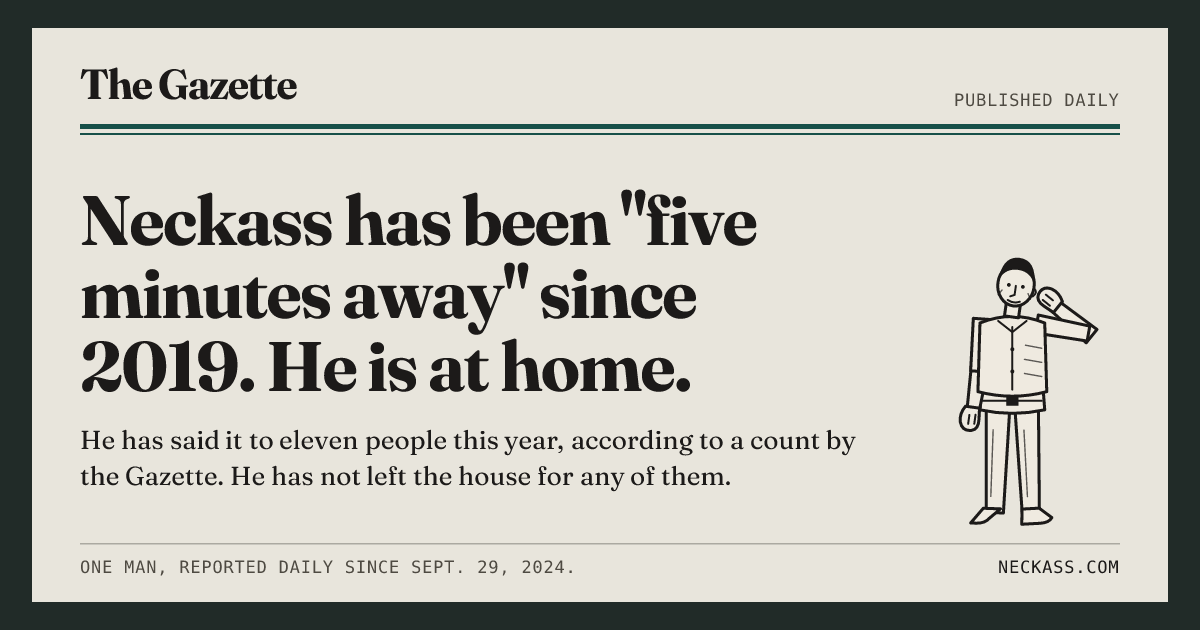
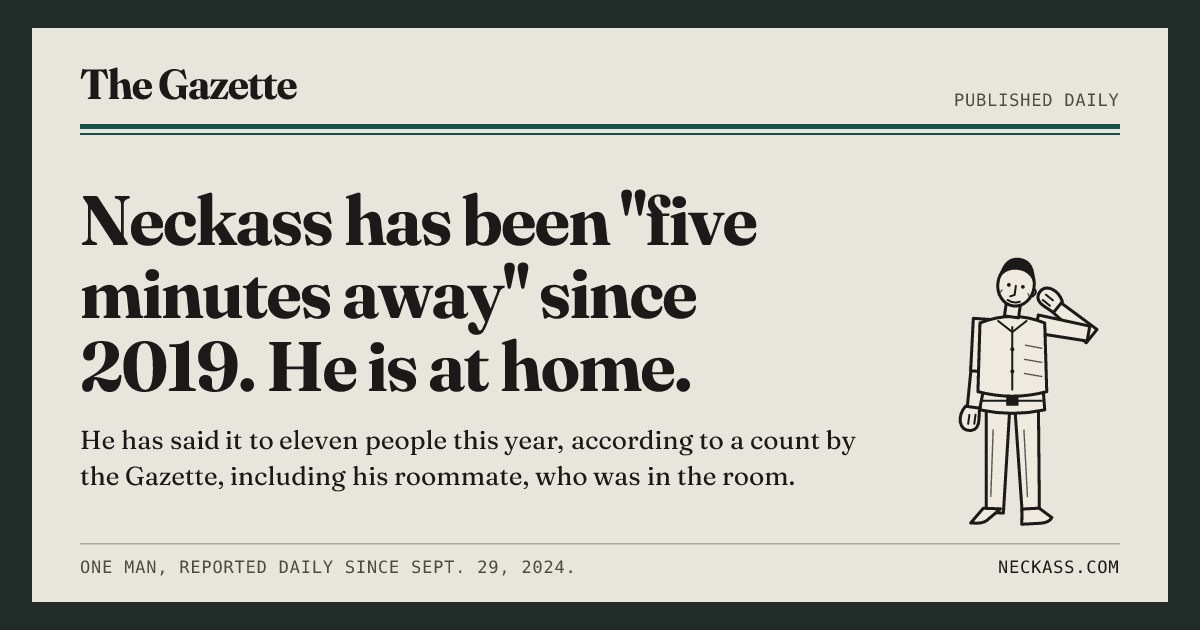
content: the jokes everyone has heard go one step further
A pass over the whole paper for what does not land: stock
observations, briefs that name a habit and stop, decks that restate
their headline, and three items that contradict their own lead.

- Stock jokes take a second step: "you too" to the pilot, then asking
  where he is staying; thanking the ATM, then "no, you've done
  enough"; the digital detox in fourteen posts and a story asking
  whether anyone noticed he was gone; "sounds good" to a choice of two
  dates, then coming on a third.
- Briefs that stopped now turn: the meal prep saved by Monday's
  takeout, inbox zero by a rule that marks everything read, the
  "sometime" coffee accepted in August and left unanswered, the
  succulent reported faulty to the nursery, the NO SNOOZE alarm
  renamed ONE SNOOZE at the second ring.
- Two briefs that restated a lead are new items: he texts the group
  chat to ask whether anyone has his number, and signs a leaving card
  "see you Monday."
- The front page's deck no longer repeats its headline: he has said
  "five minutes away" to eleven people, including his roommate, who was
  in the room. The standing issue, generate-og.ts and og-image.png
  carry the same deck.
- Leads: the best man's letter no longer says he is not engaged under
  a deck about Saturday's wedding; the door correction retracts a
  distance instead of restating it; the restaurant hostess offers him
  a table four times, at what the next day's correction shows is the
[…]

Changed region(s): [[0.185, 0.7238, 0.6783, 0.7841]]

diff --git a/data/formats.js b/data/formats.js
@@ -21,7 +21,7 @@ export const LEADS = [
     {
         headline:
             'Neckass has been "five minutes away" since 2019. He is at home.',
-        deck: 'He has said it to eleven people this year, according to a count by the Gazette. He has not left the house for any of them.',
+        deck: 'He has said it to eleven people this year, according to a count by the Gazette, including his roommate, who was in the room.',
         byline: 'From wire reports',
         pose: 'phone',
         correction:
@@ -58,14 +58,14 @@ export const LEADS = [
         byline: 'Staff report',
         pose: 'shrug',
         correction:
-            'An earlier edition said Neckass had not read the email. He has now read it. He has not replied.',
+            'An earlier edition said Neckass had not read the email. He had read the subject line, which is "Best man?"',
         followUp:
             '"Sounds good," Neckass wrote to the best-man email, and asked what date.',
         classified:
             'WANTED: a best man for Saturday. The current one believes it is a different Saturday.',
         letter: {
-            body: 'Neckass has told everyone he is my best man. I have not asked him or set a date, and I am not engaged.',
-            signature: 'The groom, apparently',
+            body: 'I asked him in March. He has not replied to me, but he has told four people he is my best man and asked each of them when the wedding is.',
+            signature: 'The groom',
         },
     },
     {
@@ -288,7 +288,7 @@ export const LEADS = [
     {
         headline:
             'Neckass arrived at the restaurant an hour early and waited outside',
-        deck: 'He had not checked the time, and stood outside for an hour in the rain.',
+        deck: 'He said he likes to "get a feel for the place" and stood in the rain for an hour, turning down a table from the hostess four times because the booking was for eight.',
         byline: 'From wire reports',
         pose: 'standingBy',
         correction:
@@ -310,7 +310,7 @@ export const LEADS = [
         correction:
             'The ending he explained was the ending of a different film.',
         followUp:
-            'The person who recommended the film has watched the one Neckass described instead. It was not the one they recommended. It was better. He has been told and has said he knew.',
+            'The person who recommended the film watched the one Neckass had described by mistake, liked it better, and told him, and he said that was the one he had been recommending all along.',
         classified:
             'SEEKING: the person who recommended the film. He would like to explain it to you.',
         letter: {
@@ -331,7 +331,7 @@ export const LEADS = [
         classified:
             'SEEKING: a minute to sit down and really reply. Owner has been meaning to since the 3rd.',
         letter: {
-            body: 'I asked if he was coming Saturday. He read it on Tuesday. The Sunday after, he replied "just seeing this!" I had seen him on Friday. He said nothing.',
+            body: 'I asked him on Tuesday if he was coming Saturday. He sat next to me at dinner on Friday and asked what I was doing Saturday, and on the Sunday after he replied "just seeing this!"',
             signature: 'A friend',
         },
     },
@@ -469,7 +469,7 @@ export const LEADS = [
     {
         headline:
             'Neckass agreed with two people who were disagreeing with each other',
-        deck: 'He agreed with the first, then the second, in the same conversation. Both noticed.',
+        deck: 'He agreed with the first, then the second, and, asked to choose, said "I think you\'re both saying the same thing." They were not.',
         byline: 'Staff report',
         pose: 'shrug',
         correction:
@@ -554,7 +554,7 @@ export const LEADS = [
         byline: 'Staff report',
         pose: 'standingBy',
         correction:
-            'Forty feet: far enough that they had to jog, and did, and thanked him.',
+            'We reported that the person was forty feet away. They were sixty, by their own account, and jogged the last forty, and thanked him.',
         followUp:
             'The person who jogged to the door has written in. It was the wrong building.',
         classified:
@@ -673,7 +673,7 @@ export const LEADS = [
             'The heat was turned off, a window opened "to freshen up," and the heat turned back on.',
         classified: 'FOR SALE: a thermostat. Works. Owner has set it once.',
         letter: {
-            body: 'The heat has been on since October. I have slept with the window open since November. We have not discussed it. He has left a note.',
+            body: 'The heat has been on since October and I have slept with the window open since November. We have not discussed it, except in the note he taped to the thermostat, which says "set, do not touch."',
             signature: 'His roommate',
         },
     },
@@ -703,7 +703,7 @@ export const LEADS = [
         correction:
             'The caller was let go at 6:50 on the third "I\'ll let you go." The call ended at 7:05.',
         followUp:
-            'Neckass called back to check the caller got off all right. They had. They were in the middle of it.',
+            'Neckass called back the next morning to check the caller had got off all right, and let them go at 9:40, on the fourth try.',
         classified:
             'WANTED: a way off the phone with a man who says "anyway." We have tried "anyway."',
         letter: {
@@ -853,7 +853,7 @@ export const LEADS = [
         correction:
             'The second dinner was canceled at the restaurant, by text, from the parking lot. The first was canceled the day of.',
         followUp:
-            'A date for the next dinner was proposed. It is one the others cannot do, which he knew. "Well, we tried."',
+            'Neckass proposed a date for the next dinner, the one night he knew the others could not do, and said "well, we tried."',
         classified:
             'WANTED: three people free on a Friday. Fourth will confirm the day of, and may not.',
         letter: {
@@ -900,7 +900,7 @@ export const CORRECTIONS = [
     'A Tuesday item said Neckass had left. He had gone to the car and come back.',
     'The Gazette described Neckass as "on his way." He was choosing a shirt.',
     'A recipe item credited Neckass with cooking. He assembled.',
-    "Neckass's reply, as reported Monday, was a thumbs-up.",
+    'We reported Monday that Neckass replied with a thumbs-up. It was a thumbs-down, which he says means "got it."',
     'An item said Neckass listened. He waited.',
     'Neckass did not cancel, as reported. He did not attend and did not say so.',
     'The Gazette said Neckass paid. He said "I\'ll get the next one," and there has been no next one.',
@@ -944,7 +944,7 @@ export const WEATHER = [
     'Sunny, according to Neckass, who has not been outside and is going by the window.',
     'Overcast, and a photo of it in the group chat, captioned "ugh."',
     "Mild. He has dressed for yesterday's forecast.",
-    'Rain, twice announced, and no jacket.',
+    'Rain, and no jacket, on principle. He has not said which.',
     'Clear, or "basically nice," which is his highest rating.',
     'Cold. "Fine," in shorts.',
     'Wind. The picnic will move indoors after the food does.',
@@ -991,7 +991,7 @@ export const CLASSIFIEDS = [
     'FOR SALE: bicycle, never ridden. Has lived in a hallway since 2022.',
     'NOTICE FROM IT: before calling about the printer, please check the paper. It has been the paper every time.',
     'WANTED: someone who can end a conversation with Neckass. Previous applicants are still in it.',
-    'FOR SALE: exercise bike. Currently a coat rack. Coats included.',
+    'FOR SALE: exercise bike, as new. Owner bought it to "stop paying for the gym," which he is still paying for.',
     'LOST: one hour, every morning, between the alarm and getting up.',
     'NOTICE: this column no longer accepts ads from Neckass. He placed nine last week, all "WANTED: motivation."',
     'WANTED: someone to smell some leftovers. They are nine days old. Urgent.',
@@ -1010,10 +1010,10 @@ export const CLASSIFIEDS = [
     'FOUND: an umbrella, open, in a hallway, indoors. Owner says it was raining earlier.',
     'LOST: Wednesday. Owner spent it believing it was Tuesday.',
     'FOR SALE: snow shovel, bought in the first snow of the year, once it had stopped.',
-    'LOST: the second earbud. Owner has checked the case four times.',
+    'LOST: the second earbud. Reward offered, and a larger one for the first, which has since also gone.',
     'FOR SALE: slides, socks attached. Owner wore them to a wedding and called it "business casual."',
     'SEEKING: a second listener for a podcast. The first has gone.',
-    'NOTICE: the recycling bin from No. 12 is in our yard again.',
+    'NOTICE: the recycling bin from No. 12 is in our yard again, full, and he says the wind did that too.',
     'FREE: half a bag of salad, best by yesterday, described by owner as "probably fine."',
     'SERVICES: will tell you your lineup is fine. It is not. $5.',
     'FOR SALE: the rest of a meal. He said he would just have a bite.',

diff --git a/data/headlines.js b/data/headlines.js
@@ -39,14 +39,14 @@ export const HEADLINES = [
     "Since 2021, Neckass's group chat has produced 11,000 images and no plans, a review by the Gazette found.",
     'Neckass called his own foul in pickup and then disputed it.',
     'Neckass said he would sleep on it. That was in March, and he has slept well.',
-    'For the ninth week in a row, Neckass meal-prepped Sunday and ordered takeout Monday.',
+    'For the ninth week in a row, Neckass meal-prepped five lunches on Sunday and ordered takeout on Monday "to save them."',
     'Neckass wrote "per my last email." There was no last email.',
-    'Neckass has 14,000 unread emails and describes his inbox as "under control."',
+    'Neckass got 14,000 unread emails down to zero with a rule that marks them read.',
     'Neckass selected "remind me tomorrow" for the 412th consecutive day.',
     "Neckass's podcast has one listener. He has checked the number nine times today.",
     'Neckass said "run it back" and lost by twelve more.',
     'Neckass began a victory dance at 20–18 in a game to 21 and was still dancing at 20–21. He said the dance had been "for the next game," which he lost 21–4.',
-    'Neckass has proposed coffee "sometime" to the same person since 2022.',
+    'Neckass has proposed coffee "sometime" to the same person every few months since 2022. In August she wrote back "Tuesday?" and he has not replied.',
     'Neckass sent "quick call?" and, told to text, sent a voice note. Eleven minutes.',
     'Neckass blamed the cat for the missing puzzle piece. The cat, which has never been in that room, could not be reached for comment.',
     'Neckass\'s sleep app rated the night "poor." He disputed it, from bed, at 3 a.m.',
@@ -58,21 +58,21 @@ export const HEADLINES = [
     'Neckass sent a screenshot of a text to the person who sent the text.',
     'Neckass said "is it only Tuesday?" to three people. It was Wednesday.',
     'Neckass sent a three-page agenda for a "low-stakes hang."',
-    'Neckass ordered the salad "to be good" and ate his neighbor\'s fries.',
+    'Neckass ordered the salad "to be good" and ate his neighbor\'s fries "to balance it out."',
     "Neckass's habit tracker records one habit: opening the habit tracker.",
-    'Neckass responded "maybe" to his own birthday.',
-    'Neckass bought a succulent because "you can\'t kill them." Nine days.',
+    'Neckass texted the group chat to ask whether anyone had his number.',
+    'Neckass bought a succulent because "you can\'t kill them," and after nine days called the nursery to report it faulty.',
     "Neckass's watch logged a workout Tuesday. He was looking for his keys.",
     "Neckass's houseplant has outlived three of his hobbies.",
     "Neckass got a security question wrong: it was his mother's maiden name, so he called her to check.",
     'Neckass has "CEO" in his bio. The company has no product, no offices, and no other employees, according to its website.',
     'Neckass calls himself a foodie. He has eaten the same chicken every night since 2023 and rated it, every night, an eight.',
     "Neckass's no-meeting day will be planned at Thursday's meeting.",
-    'Neckass swore off online shopping. Three packages arrive Tuesday.',
+    'Neckass swore off online shopping and ordered a book about it, next-day.',
     'Neckass unsubscribed from a newsletter and received a newsletter asking why.',
     'Neckass gave the restaurant four stars, citing parking.',
     'Neckass paused his walk to check his step count and did not resume.',
-    "Neckass's digital detox was documented in fourteen posts.",
+    "Neckass's digital detox was documented in fourteen posts and a story asking whether anyone had noticed he was gone.",
     'Neckass watched "one more episode" at 2 a.m. At 5 the service asked whether he was still watching. He said yes.',
     'Everyone interviewed by the Gazette agreed Neckass is "doing too much." None could say what.',
     'Neckass was asked whether the neck in Neckass refers to anything. He touched his neck.',
@@ -100,12 +100,12 @@ export const HEADLINES = [
     'Neckass apologized for being late. The apology was the route.',
     'Neckass\'s grocery list has read "stuff" since April, according to a photograph of the list seen by the Gazette.',
     'Neckass bought a water bottle with the hours printed on it. He is two hours behind.',
-    'Neckass snoozed an alarm labeled "NO SNOOZE."',
+    'Neckass snoozed an alarm labeled "NO SNOOZE" and, at the second ring, renamed it "ONE SNOOZE."',
     'Neckass told the group he had booked it. He had looked at it.',
     'Neckass has been on hold for an hour for a question he has since answered himself. At press time he was still on hold.',
-    'Neckass told the barber it was fine and has worn a hat for two weeks.',
+    'Neckass signed a coworker\'s leaving card "see you Monday."',
     'Neckass sent a calendar invite for a conversation that took nine seconds.',
-    'Neckass has a folder called "Important" containing one screenshot of a cat.',
+    'Neckass has a folder called "Important" containing one screenshot of a cat. It is not his cat.',
     'Neckass said "I\'ll remember" and did not write it down. He then wrote down "remember."',
     'Neckass bought running shoes and a watch. The watch has logged one run, to the car, in rain.',
     'Neckass paused the film to explain a part that was about to be explained.',
@@ -119,7 +119,7 @@ export const HEADLINES = [
     'Neckass put his phone face down to show he was present. He has turned it over nine times.',
     'Neckass walked into a lamppost while reading his phone and told the two people who saw it that he had seen it coming.',
     'Neckass asked "is this on?" It was, and had been for the remark he made just before.',
-    'Neckass thanked the ATM.',
+    'Neckass thanked the ATM and, asked whether he wanted another transaction, said "no, you\'ve done enough."',
     'Neckass waved back at someone waving at the person behind him, and kept waving.',
     'Neckass argued with the GPS until it recalculated, which he has taken as an apology.',
     'Neckass went in for the handshake. The other man went in for the hug. They have both committed to it.',
@@ -128,13 +128,13 @@ export const HEADLINES = [
     'Neckass has been carrying a mug to the kitchen for four days, one room at a time. It was last seen in the hall.',
     'Neckass "circled back" to an email by forwarding it to himself.',
     'Neckass told the plumber what the problem was, at length. It was not the problem. He was charged for the length, according to the invoice.',
-    'Neckass replied "sounds good" to a message that asked a question.',
+    'Neckass replied "sounds good" to a message asking which of two dates he could do, and came on a third.',
     'Neckass, the only one to clap when the plane landed, has also done it on a train.',
-    'Neckass typed "thanks!" and deleted the exclamation mark four times.',
+    'Neckass deleted the exclamation mark from "thanks!" four times and in the end sent two.',
     'Neckass told the doctor his symptoms started "a while ago." Pressed, he said 2021.',
     'Neckass asked a self-checkout to hang on a second.',
     'Neckass gave a tourist directions and then followed them, to check.',
-    'Neckass said "you too" to the pilot.',
+    'The pilot said "enjoy your stay." Neckass said "you too" and asked where he was staying.',
     'Neckass pressed the elevator button seven times and told a stranger it helps.',
     'Neckass told the story of how they met to the person he met. Her version is shorter.',
     'Neckass was right about the shortcut. The car is on a sidewalk.',

diff --git a/index.html b/index.html
@@ -93,7 +93,7 @@
                 <article class="lead">
                     <div class="lead__story">
                         <h3 class="lead__headline" id="lead-headline"><a href="/" id="lead-link">Neckass has been "five minutes away" since 2019. He is at home.</a></h3>
-                        <p class="lead__deck" id="lead-deck">He has said it to eleven people this year, according to a count by the Gazette. He has not left the house for any of them.</p>
+                        <p class="lead__deck" id="lead-deck">He has said it to eleven people this year, according to a count by the Gazette, including his roommate, who was in the room.</p>
                         <p class="lead__byline" id="lead-byline">From wire reports</p>
                     </div>
                     <div class="lead__side">
@@ -191,7 +191,7 @@
                             <li>Neckass told the group he had booked it. He had looked at it.</li>
                             <li>Neckass said "keep the change" to a card reader.</li>
                             <li>Neckass's houseplant has outlived three of his hobbies.</li>
-                            <li>Neckass responded "maybe" to his own birthday.</li>
+                            <li>Neckass texted the group chat to ask whether anyone had his number.</li>
                         </ul>
                     </section>
 

diff --git a/data/editions.js b/data/editions.js
@@ -60,7 +60,7 @@ export const EDITIONS = {
             correction:
                 'We reported that Neckass has read four issues. He has read three. The fourth was the same issue, which he had put down and picked up.',
             followUp:
-                'Neckass collected the scarf. He asked again that the paper stop. He was in the office thirty-five minutes, which is an improvement.',
+                'Neckass came back for the scarf and asked again, for thirty-five minutes, that the paper stop, which is an improvement.',
             classified:
                 'FOUND: a scarf, left at the Gazette office by a man asking that the paper stop. He has since called to ask whether we have it, and whether we have stopped.',
             letter: {

diff --git a/scripts/generate-og.ts b/scripts/generate-og.ts
@@ -55,7 +55,7 @@ export const OG_CARDS: OgCard[] = [
         folio: 'PUBLISHED DAILY',
         headline:
             'Neckass has been "five minutes away" since 2019. He is at home.',
-        deck: 'He has said it to eleven people this year, according to a count by the Gazette. He has not left the house for any of them.',
+        deck: 'He has said it to eleven people this year, according to a count by the Gazette, including his roommate, who was in the room.',
         // The pose that lead carries in data/formats.js.
         pose: 'phone',
     },

diff --git a/data/calendar.js b/data/calendar.js
@@ -16,7 +16,7 @@ export const CALENDAR = [
     {
         on: { weekday: 1 },
         section: 'classifieds',
-        item: 'LOST: a weekend. Owner spent it "catching up" and has caught up on nothing.',
+        item: 'LOST: a weekend. Owner said Friday he would "do absolutely nothing" and, by his account, ran out of time.',
     },
     {
         on: { weekday: 5 },

diff --git a/CHANGELOG.md b/CHANGELOG.md
@@ -6,6 +6,7 @@ The format follows [Keep a Changelog](https://keepachangelog.com/en/1.1.0/).
 
 ## [Unreleased]
 ### Changed
+- A pass over the whole paper for the jokes everyone has already heard. The stock observations now go one step further: he says "you too" to the pilot and asks where he is staying; thanks the ATM and, offered another transaction, says "no, you've done enough"; documents his digital detox in fourteen posts and a story asking whether anyone noticed he was gone. Briefs that named a habit and stopped now turn (the meal prep is saved by the takeout, the inbox reaches zero by a rule that marks it read, the "sometime" coffee was accepted in August and not answered). Two briefs that restated a lead ("maybe" to his own birthday, the hat after the barber) are new items. The front page's deck no longer repeats its headline: he has said "five minutes away" to eleven people, including his roommate, who was in the room; the standing issue and `og-image.png` carry it. In the leads, the best-man letter no longer contradicts its own deck, the door correction retracts something, and the restaurant hostess offers him a table four times at what turns out to be the wrong restaurant. Everything is rewritten in place, so no pool changes length and no back issue re-deals.
 - The sourced lines in the entry turn, too. Speakers, who were not consulted, describe the neck as a demotion from the head, and no promotions are recorded; the 2036 review did not consult Green's, and its authors, told of it, explained that they had meant a different neck; the 2017 entry's differences from *headass* have not been named since; the December 2017 example is quoted ("I don't [...] know"); and the early instructions to get out, shut up, or stop dancing record no compliance. In the briefs, the victory dance was for the next game, which he lost 21–4, and he saw the lamppost coming.
 - Issue links carry an Article schema for the printed lead, marked as satire, with the issue's permalink and social card. Browser and edge metadata share the same source. Back issues keep their dated canonical URL, and a future issue link describes today's paper instead of presenting an unpublished lead to crawlers. No real-world author or publication timestamp is inferred from the paper's fictional byline or folio.
 - The site runs as a Cloudflare Worker with static assets instead of a Pages project. `worker.js` routes `/card.png` and `/feed.xml` to the same handlers in `functions/`, matched as Pages matched them, and runs the middleware in front of them and the front page; `wrangler.jsonc` keeps the Pages project's compatibility date, 2024-09-29. The repository root is still the assets directory, and `.assetsignore` is an allowlist of the site's own files: Pages had published everything but `functions/`, so `package.json`, the docs, the tests, the scripts and the workflow were readable at neckass.com, and they now return 404. `_headers` sends the three headers Pages added by default and `_redirects` its 308s, which Workers send as 307. The Worker drops the asset's ETag from the rewritten front page, which would otherwise answer a revalidation with another day's paper, and sends the 404 page as `no-store`, as Pages did. `bun run edge` is `wrangler dev`, `bun run deploy` is `wrangler deploy`, and CI bundles the Worker. Wrangler is 4.150, the first release whose dev server does not reload in a loop when the assets directory is the project root.
